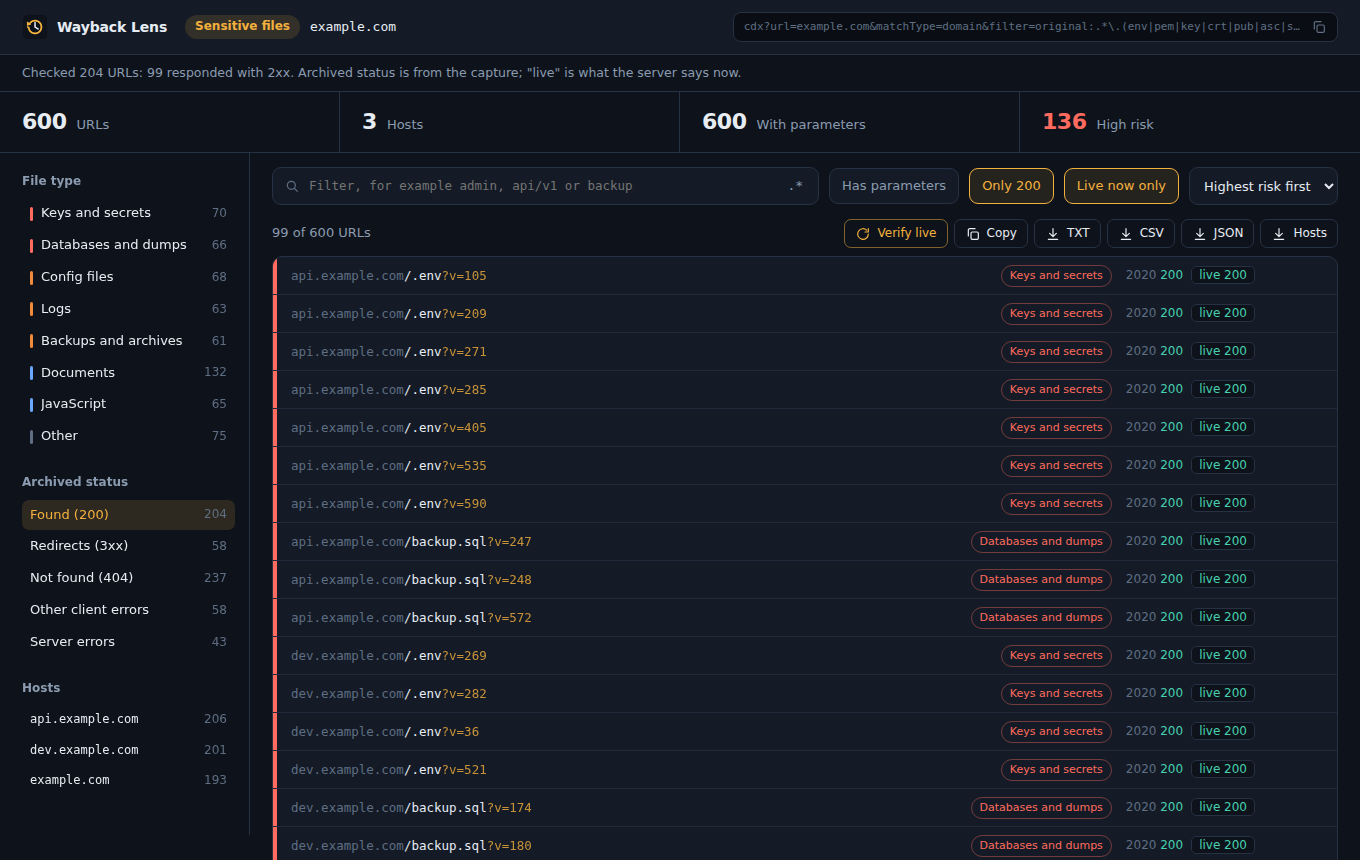
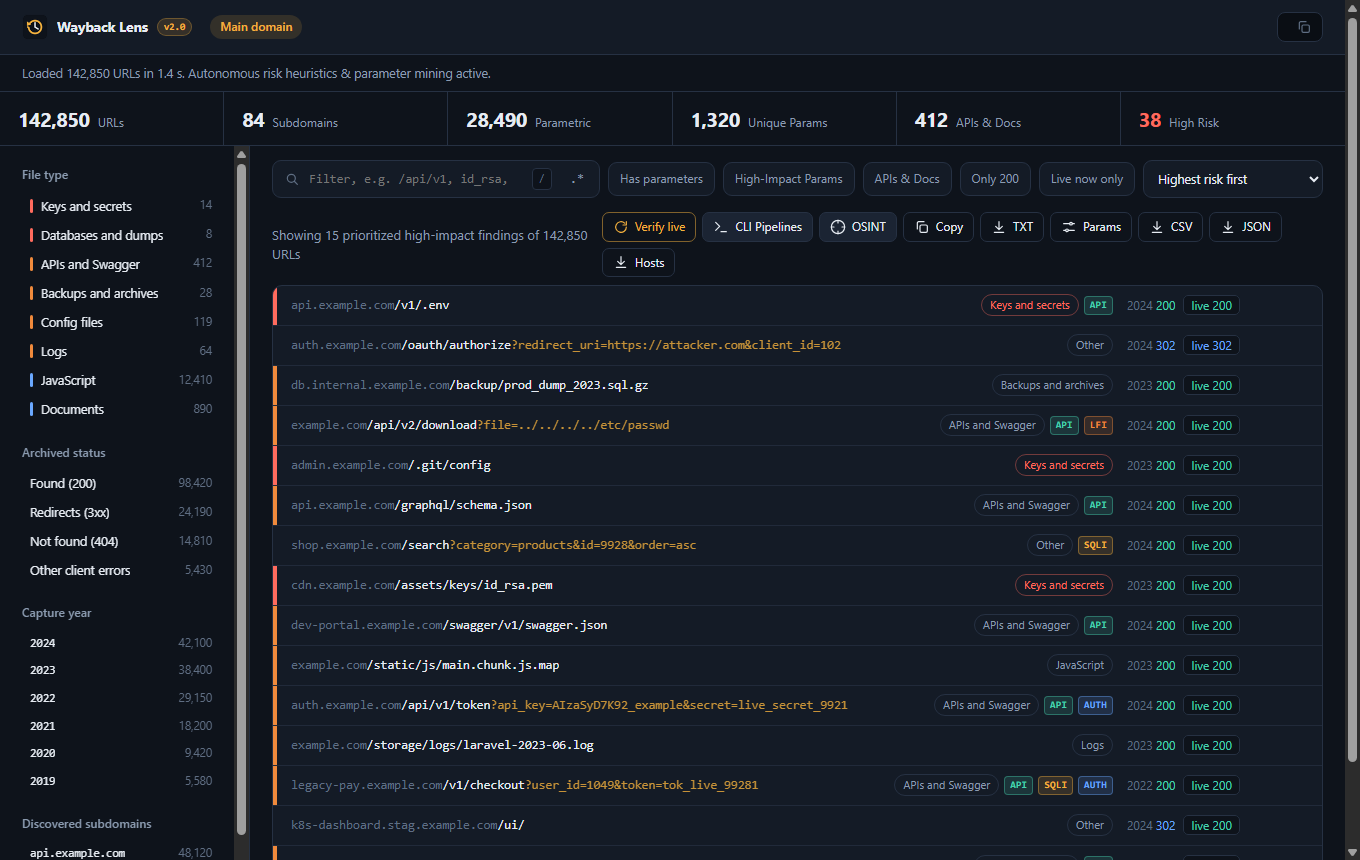
docs: update results and popup screenshots for v2.0.0 release

diff --git a/src/popup.js b/src/popup.js
@@ -4,7 +4,10 @@ document.addEventListener('DOMContentLoaded', async () => {
   const input = $('target'), scope = $('scope'), modesEl = $('modes'), qprev = $('qprev');
   const live = $('live'), limit = $('limit'), recentEl = $('recent'), toast = $('toast');
   const DEFAULT_PREVIEW = qprev.textContent;
-  const store = chrome.storage.local;
+  const store = window.chrome?.storage?.local || {
+    get: async () => ({ opts: { limit: 100000 }, recent: ['example.com', 'tesla.com', 'hackerone.com'] }),
+    set: async () => {}
+  };
 
   /* scan buttons (generated from WB.MODES so popup and results never drift apart) */
   for (const [key, m] of Object.entries(WB.MODES)) {
@@ -65,11 +68,15 @@ document.addEventListener('DOMContentLoaded', async () => {
       recentEl.append(b);
     }
   }
-  chrome.tabs.query({ active: true, currentWindow: true }, tabs => {
+  window.chrome?.tabs?.query?.({ active: true, currentWindow: true }, tabs => {
     const url = tabs[0]?.url;
     if (url && /^https?:/.test(url)) input.value = url;
     refreshScope();
   });
+  if (!input.value) {
+    input.value = 'https://example.com';
+    refreshScope();
+  }
 
   input.addEventListener('input', refreshScope);
   input.addEventListener('keydown', e => { if (e.key === 'Enter') run('domain'); });
